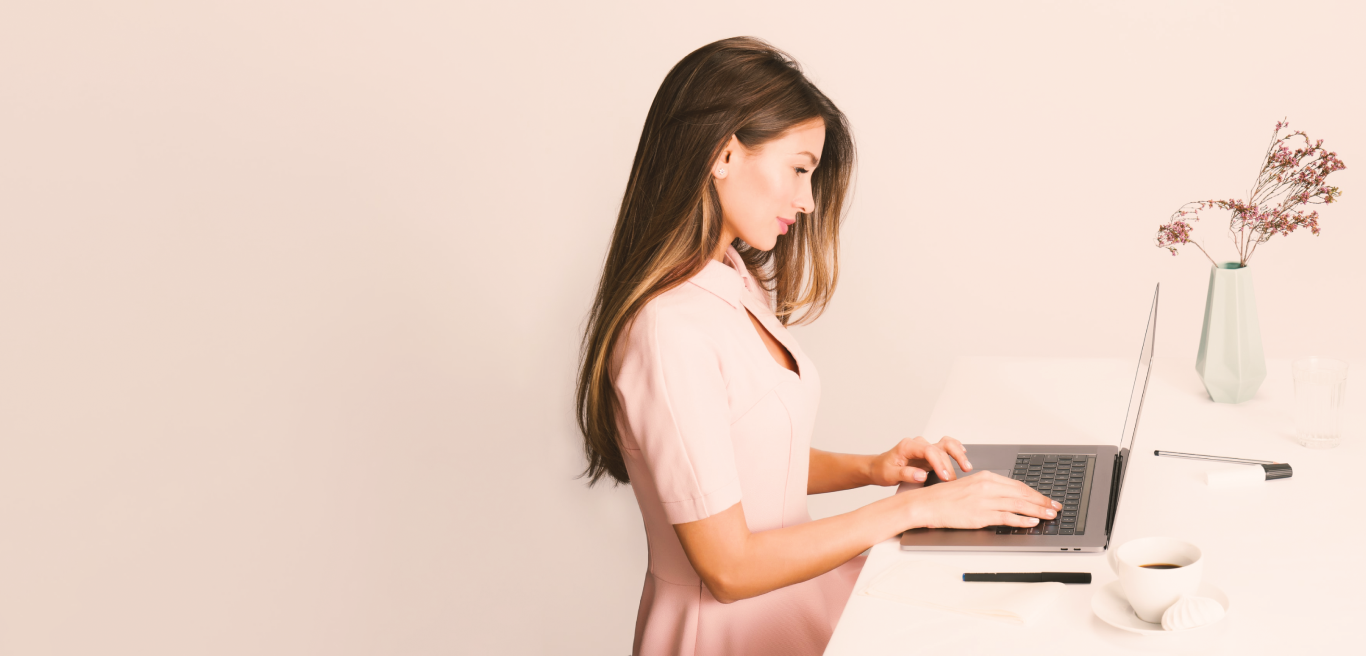
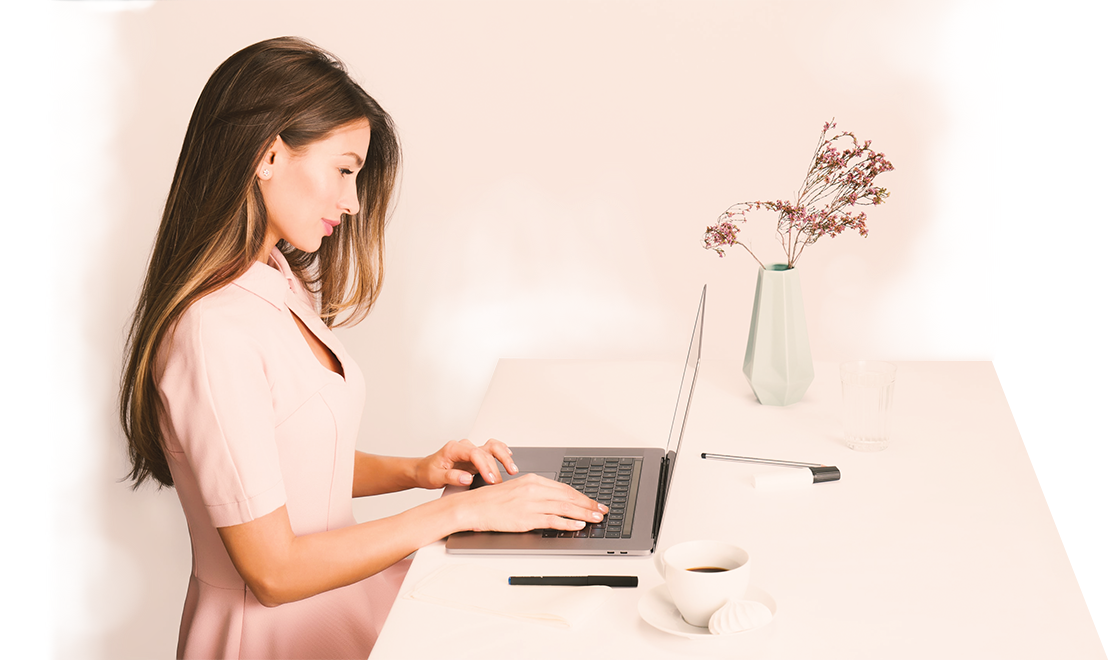
Added animation

diff --git a/src/components/Sections/Section05/index.js b/src/components/Sections/Section05/index.js
@@ -1,7 +1,6 @@
 import React from "react";
 import "./styles.scss";
 import t from "./text.json";
-import formatText from "../../../utils/formatText";
 
 const SECTION_NUMBER = "05"
 
@@ -10,11 +9,11 @@ export default class Section extends React.Component {
     render() {
 
         return (
-            <div className={`section --s${SECTION_NUMBER}`}>
+            <div className={`section --s${SECTION_NUMBER} ${this.props.animated} slideInRightAfter`}>
                 <div className={`---content`}>
-                    <div className="-s5-header-1">{t.header_1}</div>
-                    <div className="-s5-header-2">{t.header_2}</div>
-                    <div className="-s5-header-3">{t.header_3}</div>
+                    <div className="-s5-header-1 slideInDown delay1">{t.header_1}</div>
+                    <div className="-s5-header-2 slideInDown delay2">{t.header_2}</div>
+                    <div className="-s5-header-3 slideInDown delay3">{t.header_3}</div>
                     <div className="-s5-icons">
                         <Icon1 {...this.props}/>
                         <Icon2 {...this.props}/>
@@ -30,7 +29,7 @@ export default class Section extends React.Component {
 const Icon1 = props => {
     const size  = props.isMobile ? 48 : 72;
     return (
-        <div className="-s5-icon">
+        <div className="-s5-icon  slideInDown delay4">
         <svg width={size} height={size} viewBox="0 0 72 72" fill="none" xmlns="http://www.w3.org/2000/svg">
             <g clipPath="url(#clip0)">
                 <path d="M21.2905 6.94668L20.5733 7.04512C19.4765 7.18574 18.703 8.19824 18.8437 9.29512L26.8312 70.8889H31.6827L23.5265 8.67637C23.3858 7.57949 22.3874 6.80606 21.2905 6.94668Z" fill="#996459"/>
@@ -59,7 +58,7 @@ const Icon1 = props => {
 const Icon2 = props => {
     const size  = props.isMobile ? 48 : 72;
     return (
-        <div className="-s5-icon">
+        <div className="-s5-icon slideInDown delay5">
             <svg width={size} height={size} viewBox="0 0 72 72" fill="none" xmlns="http://www.w3.org/2000/svg">
                 <g clipPath="url(#clip0)">
                     <path d="M67.055 15.8994H5.67708L0 19.6475V62.4306C0 64.8947 1.99742 66.8906 4.46148 66.8906H67.5385C70.0026 66.8906 72 64.8947 72 62.4306V19.6475L67.055 15.8994Z" fill="#F9F7F8"/>
@@ -101,7 +100,7 @@ const Icon2 = props => {
 const Icon3 = props => {
     const size  = props.isMobile ? 48 : 72;
     return (
-        <div className="-s5-icon">
+        <div className="-s5-icon slideInDown delay6">
             <svg width={size} height={size} viewBox="0 0 72 72" fill="none" xmlns="http://www.w3.org/2000/svg">
             <path d="M20.25 17.4375V8.4375C20.25 7.19438 21.2569 6.1875 22.5 6.1875C27.4703 6.1875 31.5 10.2172 31.5 15.1875V17.4375H20.25Z" fill="#DB9E68"/>
             <path d="M4.5 37.6875H9V26.4375H4.5C3.25688 26.4375 2.25 27.4444 2.25 28.6875V35.4375C2.25 36.6806 3.25688 37.6875 4.5 37.6875Z" fill="#DB9E68"/>
@@ -126,7 +125,7 @@ const Icon3 = props => {
     )
 }
 
-const S5Button = <div className="-s05-button">
+const S5Button = <div className="-s05-button slideInDown delay7">
     <div className="-b-text1">{t.button_1}</div>
     <div className="-b-text2">{t.button_2}</div>
 

diff --git a/src/components/Sections/Section06/styles.scss b/src/components/Sections/Section06/styles.scss
@@ -16,23 +16,23 @@ $min-height: 656px;
       z-index: 61;
       content: "";
       position: absolute;
-      width: 803.33px;
+      width: 408px;
       height: 75px;
-      left: -515px;
-      top: 411px;
+      left: -145px;
+      top: 311px;
       background-color: rgba(246, 96, 48, 0.2);
-      transform: rotate(-31.81deg);
+      transform: rotate(-30.92deg);
     }
     &:after {
       z-index: 62;
       content: "";
       position: absolute;
-      width: 803.33px;
+      width: 1017px;
       height: 75px;
-      left: 383px;
-      top: 195px;
+      left: 345px;
+      top: 250px;
       background-color: rgba(246, 96, 48, 0.2);
-      transform: rotate(30deg);
+      transform: rotate(31deg);
     }
     .---content {
       z-index: 65;
@@ -41,6 +41,7 @@ $min-height: 656px;
       padding-top: 60px;
       display: inline-flex;
       .-s06-header {
+        //min-width: 472px;
         .-s06-header-1, .-s06-header-2, .-s06-header-3 {
           font-family: $font-Nunito-ExtraBold;
           font-size: 30px;
@@ -66,30 +67,37 @@ $min-height: 656px;
           justify-content: center;
           align-items: center;
           cursor: pointer;
-          img {
-            width: 100%;
-            height: auto;
-          }
-          .-play-button {
-            position: absolute;
-            z-index: 65;
-            width: 90px;
-            height: 90px;
-            border-radius: 45px;
-            background: rgba(255, 255, 255, 0.5);
-            display: inline-flex;
+          .--video {
+            display: flex;
             justify-content: center;
             align-items: center;
-            &:before {
-              content: url("./icons/play.svg");
-              display: flex;
+            img {
+              width: 100%;
+              height: auto;
+            }
+
+            .-play-button {
+              position: absolute;
+              z-index: 65;
+              width: 90px;
+              height: 90px;
+              border-radius: 45px;
+              background: rgba(255, 255, 255, 0.5);
+              display: inline-flex;
               justify-content: center;
               align-items: center;
-              //background: url("./icons/play.svg") no-repeat;
-              margin-left: 5px;
-              margin-top: 12px;
-              width: 36px;
-              height: 36px;
+
+              &:before {
+                content: url("./icons/play.svg");
+                display: flex;
+                justify-content: center;
+                align-items: center;
+                //background: url("./icons/play.svg") no-repeat;
+                margin-left: 5px;
+                margin-top: 12px;
+                width: 36px;
+                height: 36px;
+              }
             }
           }
         }

diff --git a/src/components/Sections/Section07/index.js b/src/components/Sections/Section07/index.js
@@ -31,19 +31,19 @@ export default class Section extends React.Component {
         const {phone, name} = this.state;
 
         return (
-            <div className={`section --s${SECTION_NUMBER}`}>
+            <div className={`section --s${SECTION_NUMBER} ${this.props.animated}`}>
                 <div className={`---content`}>
                     <div className="-s7-header">
-                        <div className="-header-1">{t.header_1}</div>
-                        <div className="-header-2">{t.header_2}</div>
-                        <div className="-header-2">{t.header_3}</div>
+                        <div className="-header-1 slideInDown delay1">{t.header_1}</div>
+                        <div className="-header-2 slideInDown delay2">{t.header_2}</div>
+                        <div className="-header-2 slideInDown delay3">{t.header_3}</div>
                     </div>
                     <div className="-form">
                         {/*<input type="text" className="-text-input --phone" name={"phone"}/>*/}
-                        <InputMask className="-text-input --phone" name={"phone"} onChange={this.onChange} value={phone} type={"tel"} placeholder={t.placeholder_phone} mask="+375 (99) 999 99 99" maskChar=" "/>
-                        <input className="-text-input --name" name={"name"} onChange={this.onChange} value={name} type={"text"} placeholder={t.placeholder_name} autoComplete={"off"} autoCorrect={"off"}/>
-                        <Button onClick={this.send}/>
-                        <div className="-description">
+                        <InputMask className="-text-input --phone slideInDown delay4" name={"phone"} onChange={this.onChange} value={phone} type={"tel"} placeholder={t.placeholder_phone} mask="+375 (99) 999 99 99" maskChar=" "/>
+                        <input className="-text-input --name slideInDown delay5" name={"name"} onChange={this.onChange} value={name} type={"text"} placeholder={t.placeholder_name} autoComplete={"off"} autoCorrect={"off"}/>
+                        <Button className={"slideInDown delay6"} onClick={this.send}/>
+                        <div className="-description slideInDown delay7">
                             {t.description}
                         </div>
                     </div>
@@ -60,7 +60,7 @@ const arrow = <span className={"arrow"}><svg width="48" height="8" viewBox="0 0 
 
 function Button(props) {
     return (
-    <div className="-s07-button" onClick={props.onClick}>
+    <div className={`-s07-button ${props.className}`} onClick={props.onClick}>
         <div className="b-top-text">{t.button_text_1}</div>
         <div className="b-bottom-text">{t.button_text_2}{arrow}</div>
     </div>

diff --git a/src/components/Sections/Section04/index.js b/src/components/Sections/Section04/index.js
@@ -12,9 +12,9 @@ export default class Section extends React.Component {
     render() {
         const {width} = this.props;
         return (
-            <div className={`section --s${SECTION_NUMBER}`}>
+            <div className={`section --s${SECTION_NUMBER} ${this.props.animated}`}>
                 <div className={`---content`}>
-                        <div className="-s4-header">{t.header}</div>
+                        <div className="-s4-header slideInDown delay1">{t.header}</div>
                     {
                         width <= 1216 ? <Mobile /> :
                             <Picture/>
@@ -49,12 +49,12 @@ const Tail6 = <svg width="381" height="78" viewBox="0 0 381 78" fill="none" xmln
 
 
 const Picture = () => (<div className="-s4-picture-content">
-    <Feature _class={"-f1"} number={"01"} name={t.feature_1} tail={Tail1}/>
-    <Feature _class={"-f2"} number={"02"} name={t.feature_2} tail={Tail2}/>
-    <Feature _class={"-f3"} number={"03"} name={t.feature_3} tail={Tail3}/>
-    <Feature _class={"-f4"} number={"04"} name={t.feature_4} tail={Tail4}/>
-    <Feature _class={"-f5"} number={"05"} name={t.feature_5} tail={Tail5}/>
-    <Feature _class={"-f6"} number={"06"} name={t.feature_6} tail={Tail6}/>
+    <Feature _class={"-f1 slideInDown delay1"} number={"01"} name={t.feature_1} tail={Tail1}/>
+    <Feature _class={"-f2 slideInDown delay2"} number={"02"} name={t.feature_2} tail={Tail2}/>
+    <Feature _class={"-f3 slideInDown delay3"} number={"03"} name={t.feature_3} tail={Tail3}/>
+    <Feature _class={"-f4 slideInDown delay4"} number={"04"} name={t.feature_4} tail={Tail4}/>
+    <Feature _class={"-f5 slideInDown delay5"} number={"05"} name={t.feature_5} tail={Tail5}/>
+    <Feature _class={"-f6 slideInDown delay6"} number={"06"} name={t.feature_6} tail={Tail6}/>
 </div>);
 
 function Feature(props) {

diff --git a/src/components/Sections/Section04/Mobile/index.js b/src/components/Sections/Section04/Mobile/index.js
@@ -27,7 +27,7 @@ export default class Mobile extends React.Component {
             <div className={"--mobile"}>
                 <Slider {...settings} >
                     {
-                        screens.map((s, i) => <Slide key={i} {...this.props} slide={s}/>)
+                        screens.map((s, i) => <Slide key={i} {...this.props} index={i} slide={s}/>)
                     }
                 </Slider>
             </div>
@@ -37,7 +37,7 @@ export default class Mobile extends React.Component {
 
 const Slide = props => {
 
-    return <div className="-f-slide">
+    return <div className={`-f-slide slideInDown delay${props.index}`}>
             <SlideIcon slide={props.slide}/>
             <div className="-f-title">{t[`feature_${props.slide}`]}</div>
     </div>
@@ -48,7 +48,7 @@ function PrevArrow(props) {
     const { className, style, onClick } = props;
     return (
         <div
-            className={className}
+            className={`${className} slideInDown delay2`}
             style={{ ...style, display: "block" }}
             onClick={onClick}>
             <svg width="12" height="18" viewBox="0 0 12 18" fill="none" xmlns="http://www.w3.org/2000/svg">
@@ -62,7 +62,7 @@ function NextArrow(props) {
     const { className, style, onClick } = props;
     return (
         <div
-            className={className}
+            className={`${className} slideInDown delay3`}
             style={{ ...style, display: "block" }}
             onClick={onClick}>
             <svg width="12" height="18" viewBox="0 0 12 18" fill="none" xmlns="http://www.w3.org/2000/svg">

diff --git a/src/components/Sections/Section06/index.js b/src/components/Sections/Section06/index.js
@@ -11,17 +11,19 @@ export default class Section extends React.Component {
     render() {
 
         return (
-            <div className={`section --s${SECTION_NUMBER}`}>
+            <div className={`section --s${SECTION_NUMBER} ${this.props.animated}`}>
                 <div className={`---content`}>
                     <div className="-s06-header">
-                        <div className="-s06-header-1">{t.header_1}</div>
-                        <div className="-s06-header-2">{t.header_2}</div>
-                        <div className="-s06-header-3">{t.header_3}</div>
+                        <div className="-s06-header-1 slideInDown delay1">{t.header_1}</div>
+                        <div className="-s06-header-2 slideInDown delay2">{t.header_2}</div>
+                        <div className="-s06-header-3 slideInDown delay3">{t.header_3}</div>
                     </div>
                     <div className="-s5-video">
-                        <div className="-video-content">
-                            <img src={image} alt=""/>
-                            <div className="-play-button"/>
+                        <div className="-video-content slideInRight">
+                            <div className="--video ">
+                                <img src={image} alt=""/>
+                                <div className="-play-button"/>
+                            </div>
                         </div>
                     </div>
                 </div>

diff --git a/src/components/Sections/Section05/styles.scss b/src/components/Sections/Section05/styles.scss
@@ -19,7 +19,7 @@ $min-height: 656px;
       content: "";
       position: absolute;
       width: 100vw;
-      //background-color: #F9DDD1;
+      background: linear-gradient(360deg, #E5CEC2 0%, #FAE7DD 100%);
       height: $min-height;
     }
     &:after {
@@ -27,9 +27,9 @@ $min-height: 656px;
       content: "";
       background: url("./images/s4-bg.png") no-repeat;
       position: absolute;
-      width: 1366px;
+      width: 100vw;
       height: 656px;
-      background-position-x: 0;
+      background-position-x: calc(50% + 400px);
 
     }
     .---content {
@@ -117,10 +117,21 @@ $min-height: 656px;
         }
       }
     }
-
   }
 }
 
+@media only screen and (max-width: 1216px) {
+  .section {
+    $height: 440px;
+    &.--s05 {
+      margin: 0 !important;
+
+      .---content {
+        margin: 0 20px
+      }
+    }
+  }
+}
 
 @media only screen and (max-width: 960px) {
   .section {

diff --git a/src/components/Sections/Section03/index.js b/src/components/Sections/Section03/index.js
@@ -79,7 +79,7 @@ function PrevArrow(props) {
     const { className, style, onClick } = props;
     return (
         <div
-            className={className}
+            className={`${className} slideInDown delay5`}
             style={{ ...style, display: "block" }}
             onClick={onClick}>
             <svg width="12" height="18" viewBox="0 0 12 18" fill="none" xmlns="http://www.w3.org/2000/svg">
@@ -93,7 +93,7 @@ function NextArrow(props) {
     const { className, style, onClick } = props;
     return (
         <div
-            className={className}
+            className={`${className} slideInDown delay6`}
             style={{ ...style, display: "block" }}
             onClick={onClick}>
             <svg width="12" height="18" viewBox="0 0 12 18" fill="none" xmlns="http://www.w3.org/2000/svg">

diff --git a/src/components/Sections/Section10/index.js b/src/components/Sections/Section10/index.js
@@ -57,7 +57,7 @@ export default class Section extends React.Component {
         const isMobile = width <= 500;
 
         return (
-            <div className={`section --s${SECTION_NUMBER}`}>
+            <div className={`section --s${SECTION_NUMBER} ${this.props.animated}`}>
                 <div className={`---content`}>
                     <div className="-header-1">{isMobile ? t.m_header_1 : t.header_1}</div>
                     <div className="-header-2">{isMobile ? t.m_header_2 : t.header_2}</div>

diff --git a/src/components/Sections/Section08/index.js b/src/components/Sections/Section08/index.js
@@ -31,7 +31,7 @@ export default class Section extends React.Component {
             prevArrow: <PrevArrow />
         };
         return (
-            <div className={`section --s${SECTION_NUMBER}`}>
+            <div className={`section --s${SECTION_NUMBER} ${this.props.animated}`}>
                 <div className={`---content`}>
                     <div className="-s8-header">
                         <div className="-header_1">{isMobile ? t.m_header_1 : t.header_1}</div>

diff --git a/src/components/Sections/Section09/index.js b/src/components/Sections/Section09/index.js
@@ -10,7 +10,7 @@ export default class Section extends React.Component {
     render() {
 
         return (
-            <div className={`section --s${SECTION_NUMBER}`}>
+            <div className={`section --s${SECTION_NUMBER} ${this.props.animated}`}>
                 <div className={`---content`}>
                     <div className="-s9-text">
                         <div className="-header-1">{t.header_1}</div>

diff --git a/src/components/Sections/Section11/index.js b/src/components/Sections/Section11/index.js
@@ -42,7 +42,7 @@ export default class Section extends React.Component {
         let zoom = isMobile ? 12 : 14;
         let iconImageOffset = isMobile ? [-40, -99] : [-70, -160]
         return (
-            <div className={`section --s${SECTION_NUMBER}`}>
+            <div className={`section --s${SECTION_NUMBER} ${this.props.animated}`}>
                 <div className={`---content`}>
 
                     <YMaps
